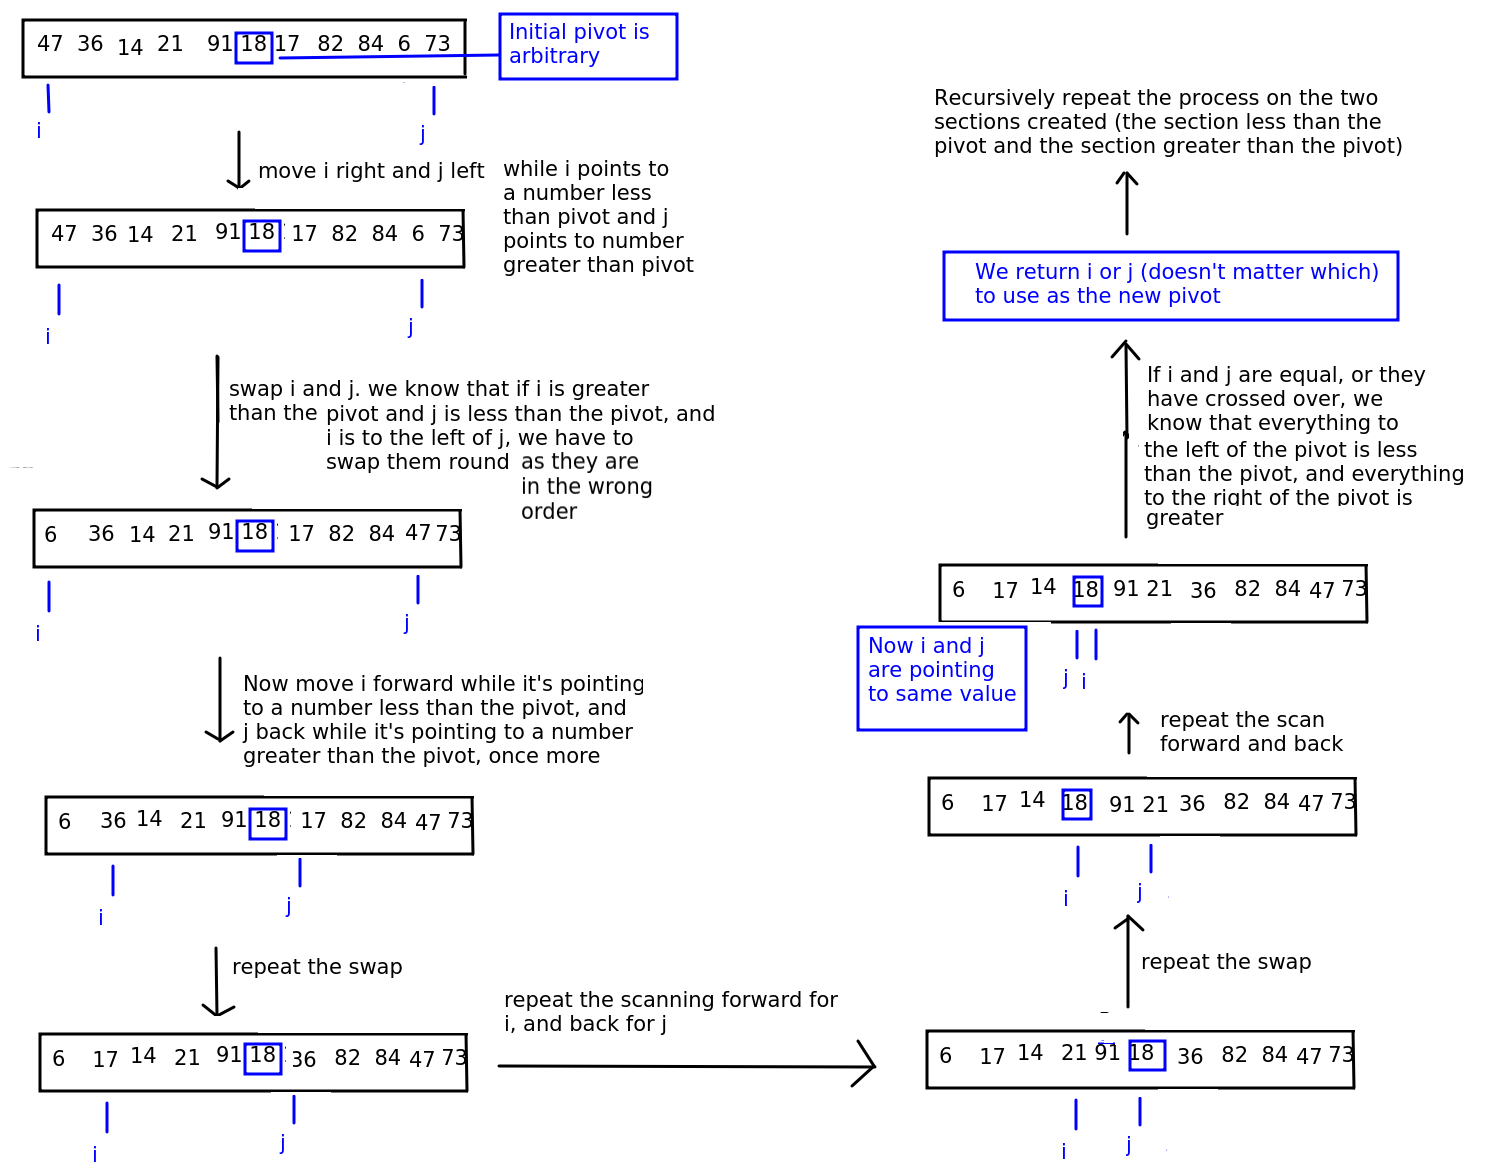
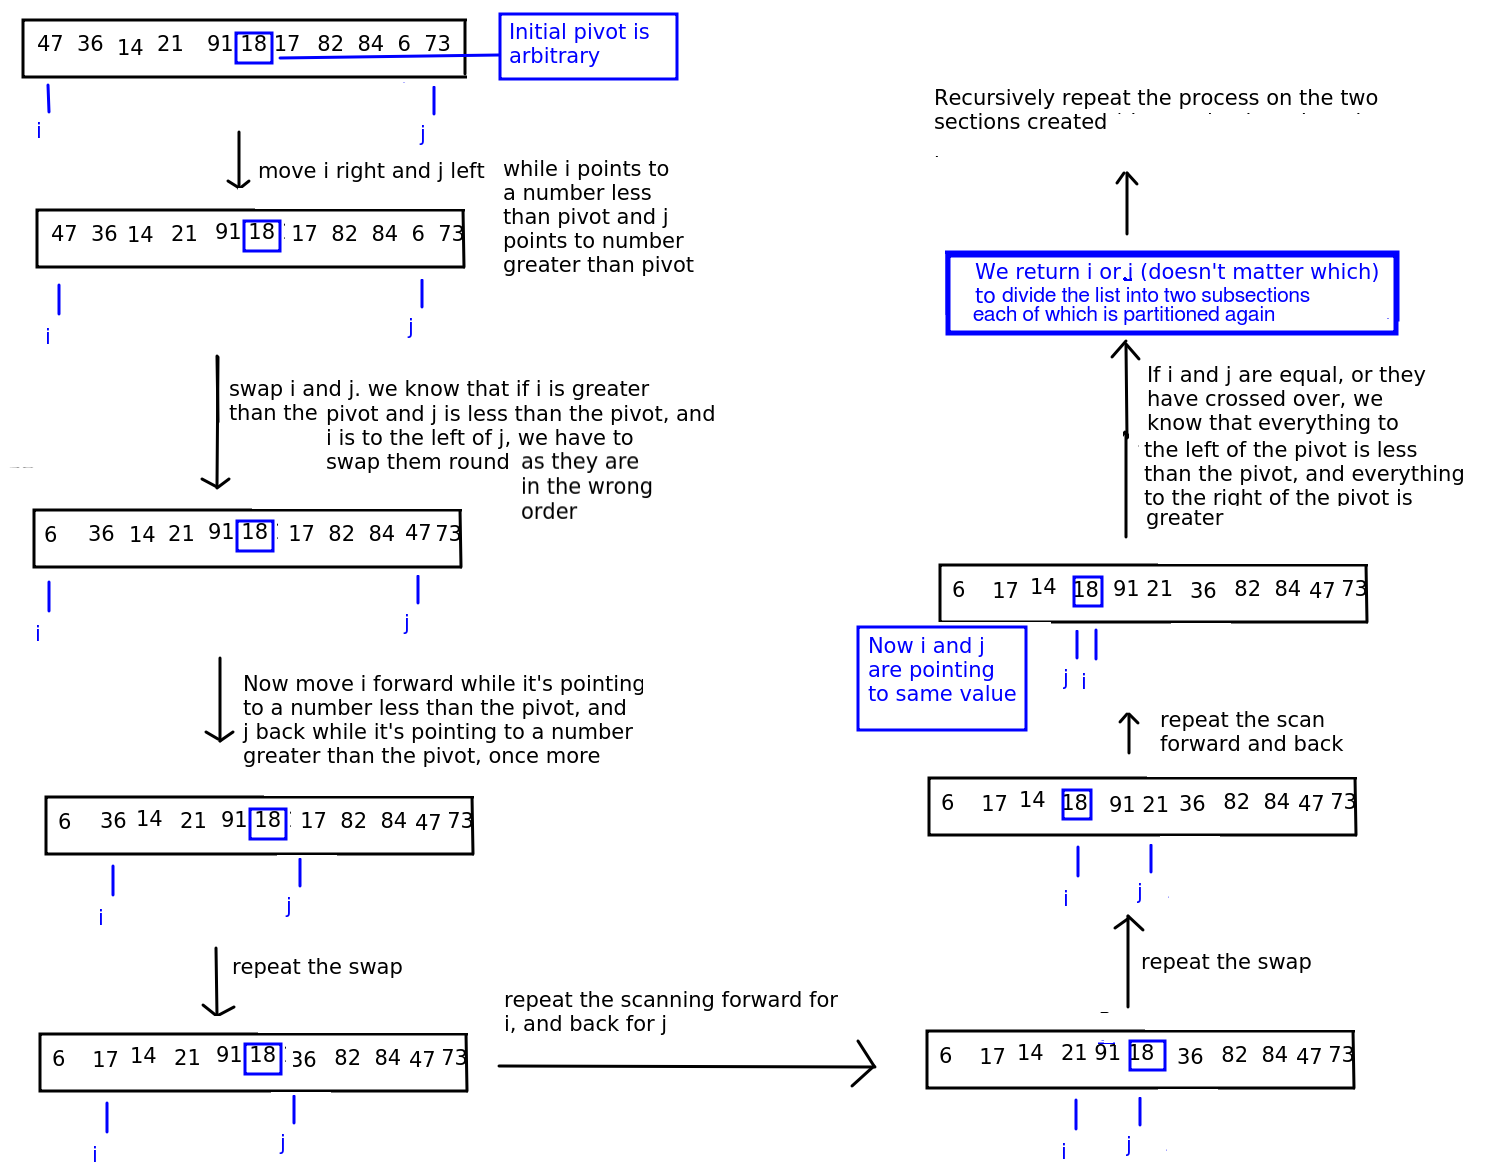
further quicksort alterations

Changed region(s): [[0.6179, 0.2163, 0.9577, 0.309], [0.7105, 0.0927, 0.9268, 0.1545], [0.6488, 0.1236, 0.6797, 0.1545]]

diff --git a/COM431/sorting2.html b/COM431/sorting2.html
@@ -23,7 +23,7 @@ those of you who are coping reasonably well with the module an idea on how more 
 pointing to the start of the list and end of the list. We move the first "finger", referenced by the variable <code>i</code> forwards and the second "finger", referenced by the variable <code>j</code>, backwards, until <code>i</code> points to something <strong>GREATER THAN OR EQUAL</strong> TO the pivot and <code>j</code> points to something <strong>LESS THAN OR EQUAL TO</strong> the pivot.</p>
 <p>As we move each "finger" forward and back, we test whether any valuse need to be swapped. If the value at <code>i</code> is greater than the value at <code>j</code>, and <code>i</code> is still to the left of <code>j</code>, then we know that the values are in the wrong order and we swap them.</p>
 <p>When <code>i</code> and <code>j</code> point to the same element (the pivot) or cross over (<code>j</code> is to the left of <code>i</code>), then we know that we have done all the swaps we can, because <code>i</code> will have scanned all values greater than the pivot which were to the left of the pivot (and have now been swapped), and <code>j</code> will have scanned all values less than the pivot which were to the right of the pivot (and have now been swapped).</p>
-<p>We return the new pivot position (which will be either <code>j</code> or <code>i</code> - often they will point to the same value) so we can continue the operation recursively.</p>
+<p>We return the new partition point (which will be either <code>j</code> or <code>i</code> - often they will point to the same value) so we can continue the operation recursively.</p>
 <p>The algorithm is shown on the diagram below.</p>
 <p><img src="../images/qsort2.png" alt="Quicksort - Hoare partitioning algorithm" /></p>
 <p>The quicksort function then:</p>
@@ -31,7 +31,7 @@ pointing to the start of the list and end of the list. We move the first "finger
 <li>gets a new pivot by calling the Hoare partitioning algorithm;</li>
 <li>recursively calls quicksort on the section left of the pivot and section right of the pivot.</li>
 </ul>
-<p>The recursion will stop when the found pivot position is either at the start or the end of the list, as that means all members are before or after.</p>
+<p>The recursion will stop when we have a list section of length 1 as it cannot be partitioned.</p>
 <p>Quicksort is rather difficult to figure out from scratch so I will present some Python-like pseudocode of the Hoare algorithm below. This can be found in multiple places on the web including <a href="https://en.wikipedia.org/wiki/Quicksort">Wikipedia</a>; as always you should always double-check anything on Wikipedia against other sources to check it's accurate.</p>
 <pre><code>function hoare_partition(data, start, end)
     Let i = start
@@ -51,7 +51,7 @@ pointing to the start of the list and end of the list. We move the first "finger
         If i is less than j
             Swap the numbers
         else
-            return j  # i and j have crossed over. Use j as the new pivot - could also use i
+            return j  # i and j have crossed over. Use j as the partitioning point - could also use i
 </code></pre>
 <h3>Progressive sorting of quicksort using recursion</h3>
 <p>We have covered the Hoare algorithm for sub-partitioning a partition, however it may not be clear how the quicksort algorithm progresses as a whole. In order to implement quicksort,
